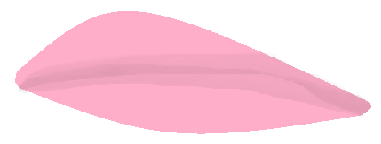
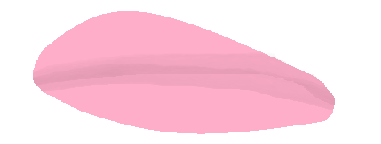
chore: update SakuraLeaf asset; halve petal draw size
Made-with: Cursor

diff --git a/src/components/SpringPetals.tsx b/src/components/SpringPetals.tsx
@@ -22,7 +22,7 @@ interface Petal {
   baseOpacity: number;
 }
 
-const BASE_HEIGHT_PX = 14;
+const BASE_HEIGHT_PX = 10;
 const DEG = Math.PI / 180;
 /** Было «за кадр» при ~60 FPS — переводим в /сек для стабильной скорости на 120 Hz и т.д. */
 const ASSUMED_FPS = 60;